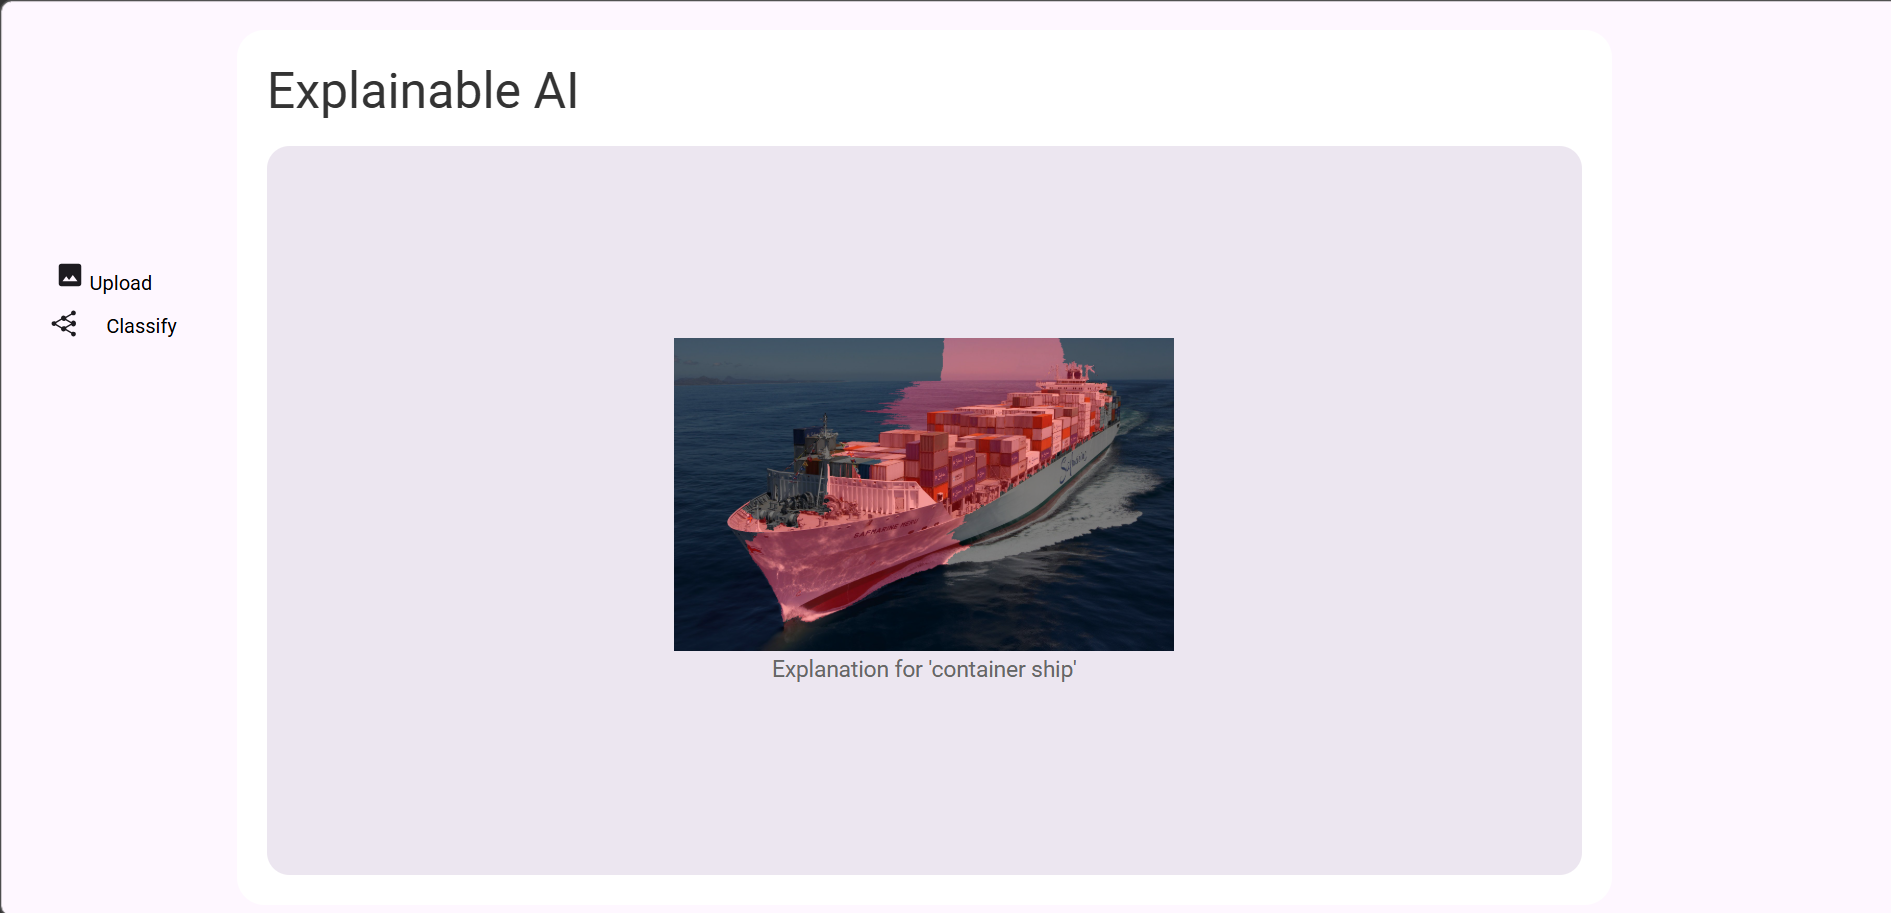
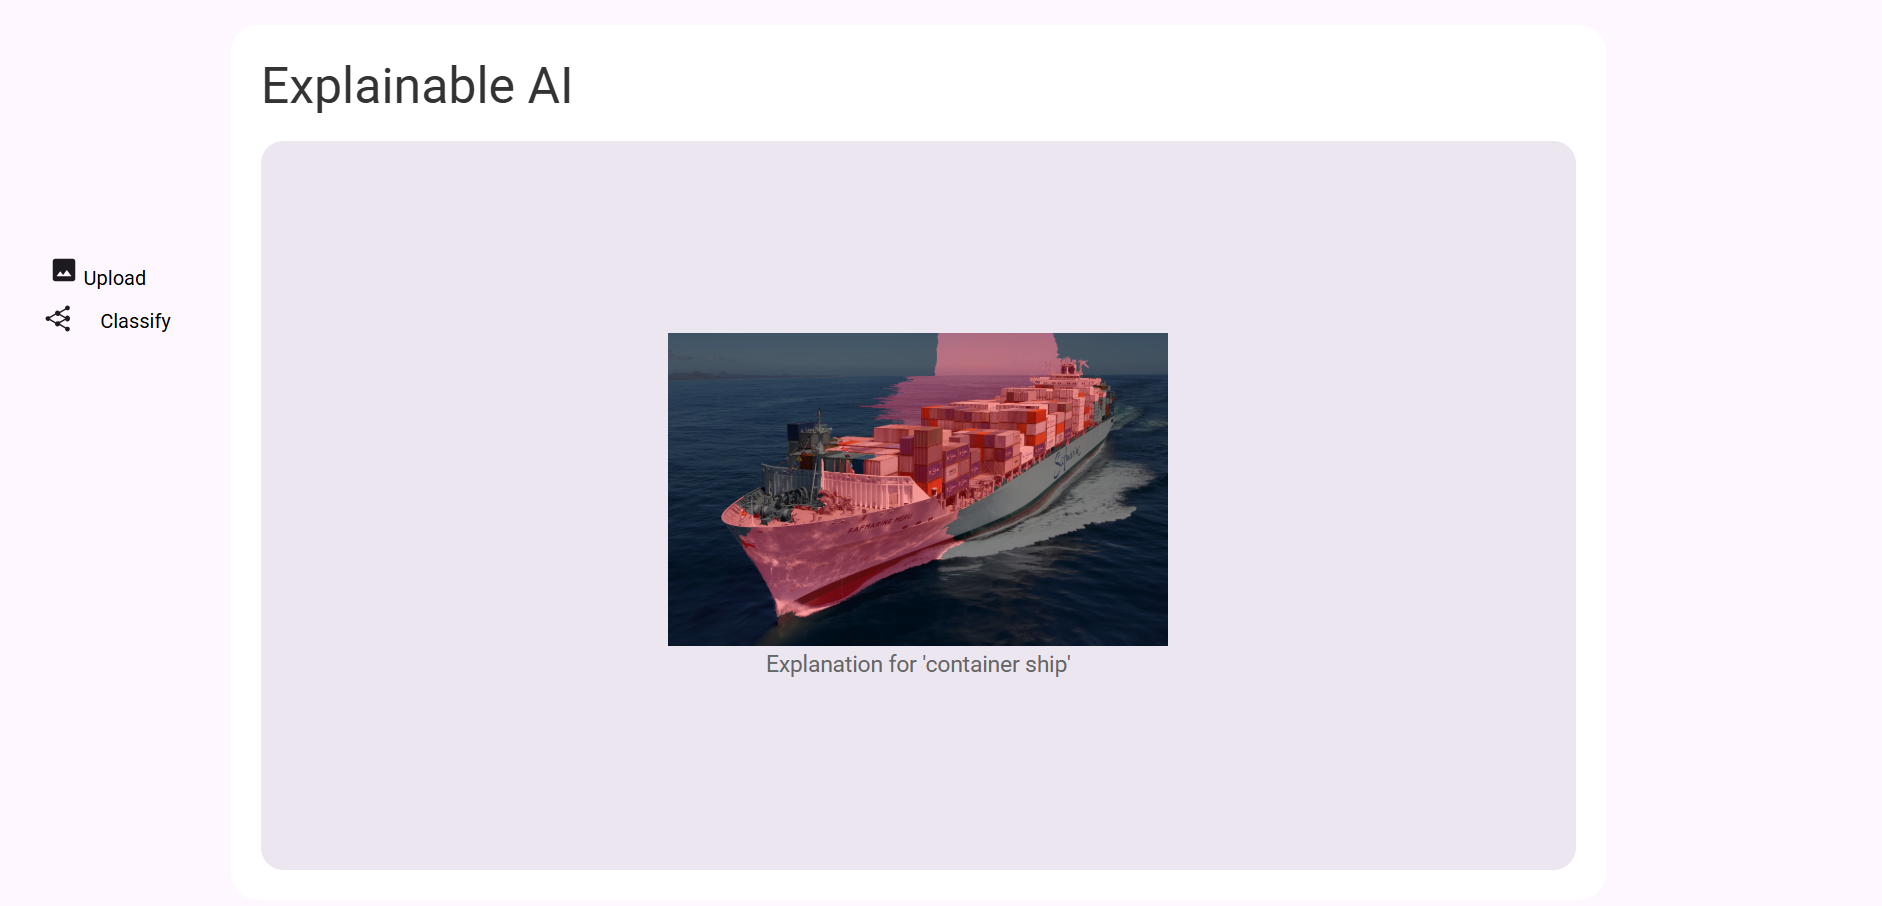
LIME Implementierung

diff --git a/documentation/ausarbeitung/htwsaar-i-mst-vorlage-2.25/htwsaar-i-mst-vorlage-2.25/Chapters/Implementierung.tex b/documentation/ausarbeitung/htwsaar-i-mst-vorlage-2.25/htwsaar-i-mst-vorlage-2.25/Chapters/Implementierung.tex
@@ -15,15 +15,19 @@ Auf der linken Seite der GUI befinden sich die beiden Buttons \("\)Upload\("\) u
 Durch einen Klick auf den Upload-Button wird ein Bild hochgeladen, das in der Mitte der Seite angezeigt wird.
 Unter dem Bild kann über ein Dropdown-Menü das Modell zur Klassifizierung ausgewählt werden.\\
 \includegraphics[width=\linewidth]{Graphics/uploaded_image}
+\captionof{figure}{Anzeige des hochgeladenen Bildes}
 Das hochgeladene Bild kann dann mit dem Classify-Button klassifiziert werden.
 Dann erscheinen unter dem Bild zwei Dropdown-Menüs zur Auswahl einer der 5 wahrscheinlichsten Klassen und einer Erklärungsart.\\
 \includegraphics[width=\linewidth]{Graphics/classified_image}
+\captionof{figure}{Anzeige der 5 wahrscheinlichsten Klasse in einem Dropdown-Menü}
 Die möglichen Erklärungsarten sind Grad-CAM und LIME.
 Durch Klick auf den Explain-Button wird die ausgewählte Erklärung für die ausgewählte Klasse ausgeführt und eine Heatmap über dem Bild angezeigt.
 Bei Grad-CAM markieren verschiedene Farben die Relevanz bestimmter Bereiche für die Klassifizierung des Bildes.
 Bei LIME wird nur in einer Farbe angezeigt, welcher Bereich für die Klassifizierung relevant war.\\
 \includegraphics[width=\linewidth]{Graphics/gradcam}
+\captionof{figure}{Anzeige der Grad-CAM-Heatmap über dem Bild}
 \includegraphics[width=\linewidth]{Graphics/lime}
+\captionof{figure}{Anzeige des LIME-Overlays über dem Bild}
 
 \subsection{Interaktion mit der GUI}
 Das Layout der Seite wird über HTML-Templates definiert.
@@ -44,6 +48,7 @@ Mit zwei unterschiedlichen Verfahren lässt sich auch der Unterschied zwischen d
 Grad-CAM ist modellspezifisch, da es mit den Gradienten des Neural Networks arbeitet.
 LIME ist dagegen modellagnostisch und approximiert die Klassifizierung lokal.\\
 \includegraphics[width=\linewidth]{Graphics/google_trends_gradcam}
+\captionof{figure}{Zeitlicher Verlauf der Suchanfragen zu Grad-CAM im Vergleich zu anderen Methoden}
 
 \subsection{Wahl des CNN-Modells}
 Als CNN-Modell wurde ein vortrainiertes EfficientNetV2 verwendet.
@@ -66,3 +71,9 @@ Daraufhin wird noch eine ReLU-Funktion angewendet und eine Normalisierung durchg
 Das 2D-Array wird schließlich in eine Heatmap umgewandelt und transparent über das Bild gelegt.
 
 \subsubsection{LIME}
+Eine Erklärung für LIME kann mit der Funktion \verb|explain_instance| erzeugt werden.
+Diese erhält als Eingabe unter anderem das Bild, die Klassifizierungsfunktion und die Anzahl der zufällig veränderten Bilder, die in diesem Fall auf 100 gesetzt ist.
+Die Klassifizierungsfunktion \verb|lime_predict| gibt anhand eines Arrays von leicht veränderten Bildern die Klassenwahrscheinlichkeiten für jedes Bild zurück.
+Über den Parameter \verb|segmentation_fn| wird hier festgelegt, dass das Bild in 30 Segmente aufgeteilt wird.
+Die Funktion \verb|get_image_and_mask| bestimmt, dass die 3 wichtigsten Segmente für die Klassifizierung eingefärbt werden.
+Am Ende wird dann ein transparentes Overlay, bei dem diese Segmente rot gefärbt sind, über das Bild gelegt.
